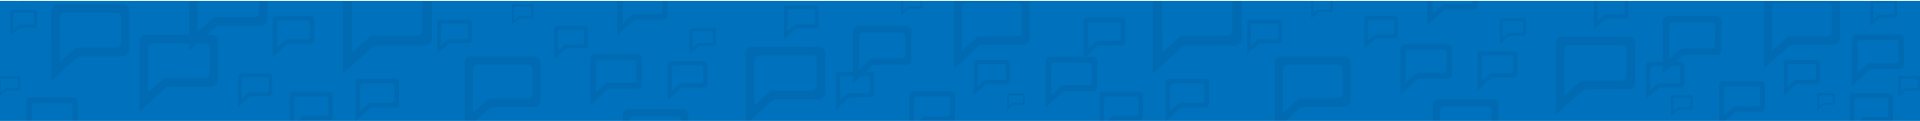
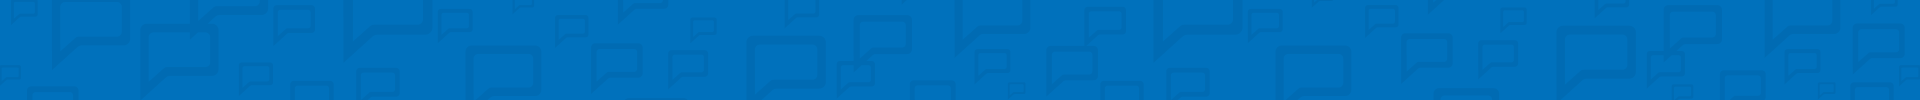
projeto em andamento

Changed region(s): [[0.0, 0.0, 1.0, 0.03]]

diff --git a/pontotv/src/components/Header/index.js b/pontotv/src/components/Header/index.js
@@ -15,8 +15,11 @@ const HeaderMenu = styled.header`
   height: 80px;
   display: flex;
   justify-content: space-evenly;
+  background-image: url(${Headerback});
+  background-size:     cover;                      
+    background-repeat:   no-repeat;
+    background-position: center center;  
   padding: 0 5;
-  background: url(${Headerback});
   position: sticky;
   top: 0;
   z-index: 2;
@@ -103,6 +106,7 @@ function Header(){
 
   return(
     <HeaderMenu id="/">
+
       <ImgPtv src= {logoptv}/>
       <div class="mobile-menu" onClick={() => setIsOpen(!isOpen)}>
         <div class="line1"></div>
